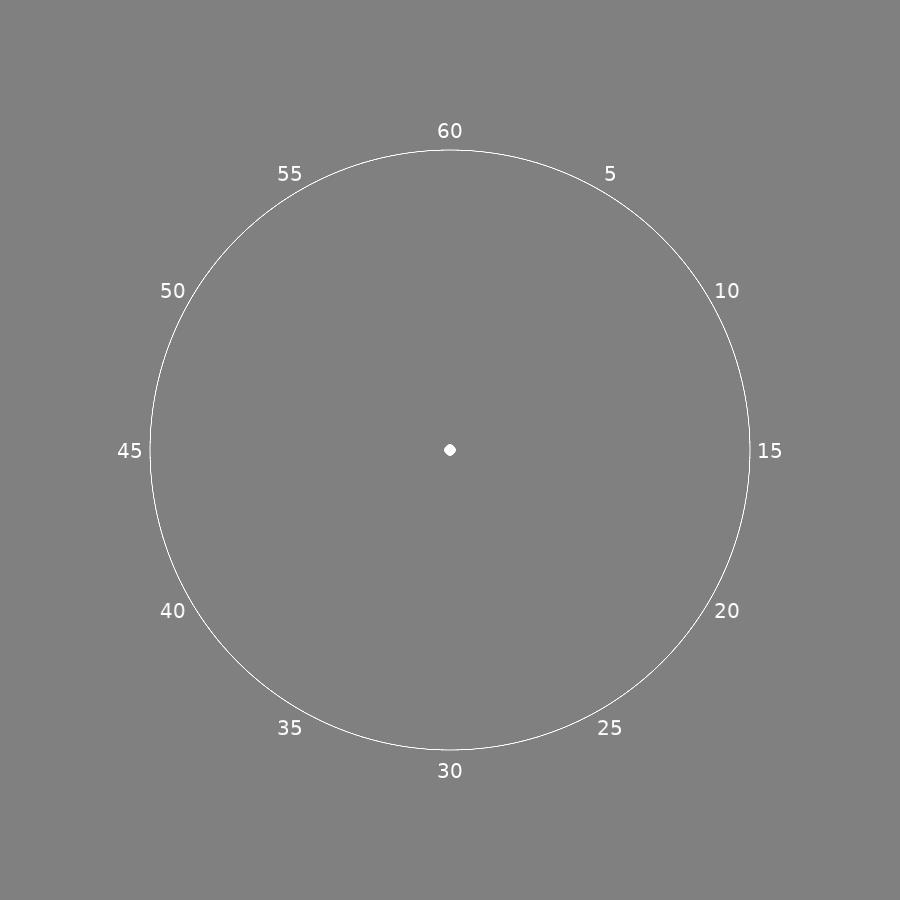
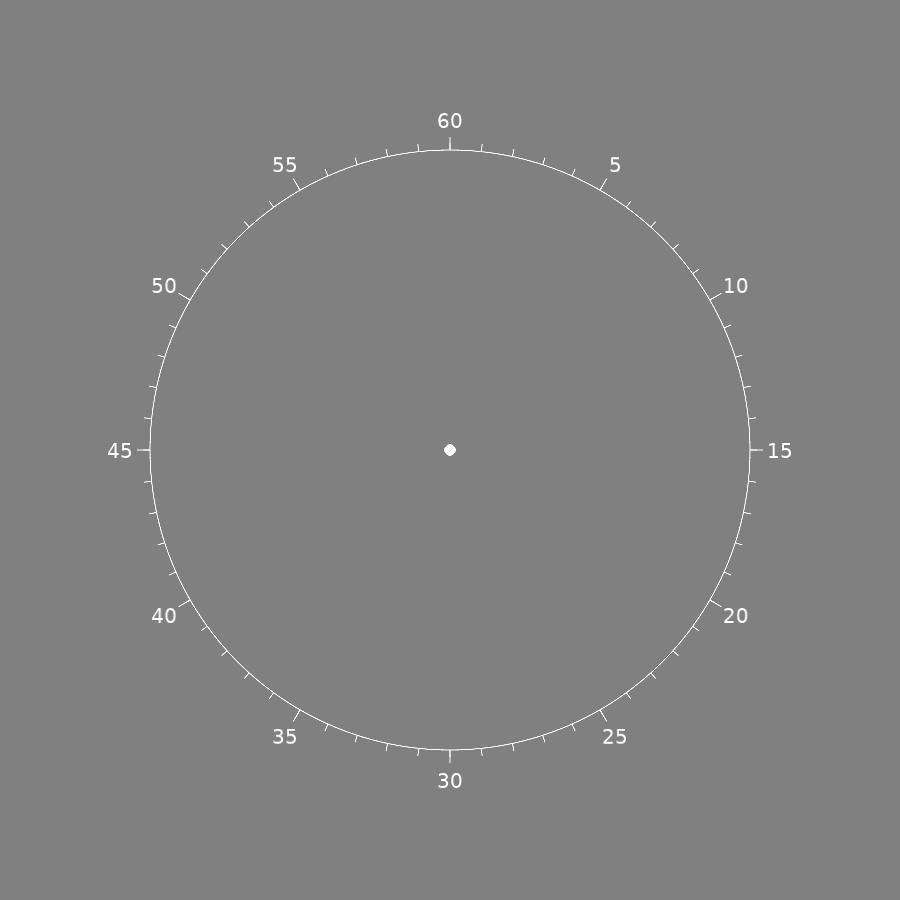
must be close to what ellen wanted

diff --git a/main.py b/main.py
@@ -1,16 +1,28 @@
-import numpy as np
-from psychopy import visual, event, core, monitors
+from psychopy import prefs
+prefs.hardware['audioLib'] = ['pyo']
+# prefs.hardware['audioLatencyMode'] = '3'  # Aggressive exclusive mode in PTB
+from psychopy import visual, event, core, monitors, microphone, gui, sound
 import psychopy.tools.coordinatetools
 import random
-# from mygui import present_gui
+import numpy as np
+import csv
+import os
+from guimy import present_gui
 
-# dlg = present_gui()
-# condition = dlg['Condition']
-condition = 'baseline action'
-condition = 'action-effect: tone'
+# Enable sound input/output: you need to do this well before you actually record anything, it is like 'power on'
+microphone.switchOn(sampleRate=16000)
+
+dlg = present_gui()
+participant = dlg['Participant ID']
+age = dlg["Participant Age"]
+sex = dlg["Participant Sex"]
+condition = dlg["Condition"]
+
+print("")
 print(condition)
-which_window_size = "fullscreen"
-which_window_size = "small"
+print("")
+
+which_stimulus_size = dlg["Stimulus size"]
 
 # initialise the monitor
 mon = monitors.Monitor("e330", width=30.0, distance=60.0)
@@ -18,16 +30,16 @@ mon.saveMon()
 mon.setSizePix((1920, 1080))
 
 # open the window
-if which_window_size == "small":
+if which_stimulus_size == "window":
     win = visual.Window(fullscr=False,  size=[900, 900], screen=0, color=[0, 0, 0], units="pix", allowGUI=True,
                         waitBlanking=True, monitor=mon, autoLog=False, winType='pyglet', gammaErrorPolicy="ignore")
-elif which_window_size == "fullscreen":
+elif which_stimulus_size == "fullscreen":
     win = visual.Window(fullscr=True, size=[1920, 1080], units='pix', winType='pyglet', monitor=mon)
 
 # specify the coordinates of the numbers on the clock perimeter
 thetas = np.linspace(start=360+90, stop=90, num=12, endpoint=False, retstep=False, dtype='f8')
-xs, ys = psychopy.tools.coordinatetools.pol2cart(thetas, radius=300+20)
-coords = list(zip(xs, ys))
+xs, ys = psychopy.tools.coordinatetools.pol2cart(thetas, radius=300+30)
+text_positions = list(zip(xs, ys))
 
 # give the coordinates of each increment's position on the clock perimeter, for use in rotating the hand smoothly
 thetas = np.linspace(start=360+90, stop=90, num=60*4, endpoint=False, retstep=False, dtype='f8')
@@ -37,6 +49,12 @@ second_positions = list(zip(xs, ys))
 # Make a stimulus for the clock's perimeter
 clock_circle = visual.Circle(win, radius=300, edges=32*8, pos=(0, 0), name='clock')
 
+# Make a not-shown circle with 12 edges for tick mark positions
+tick_circle_start_major = visual.Circle(win, radius=300, edges=12, pos=(0, 0))
+tick_circle_end_major =   visual.Circle(win, radius=300+13, edges=12, pos=(0, 0))
+tick_circle_start_minor = visual.Circle(win, radius=300, edges=60, pos=(0, 0))
+tick_circle_end_minor =   visual.Circle(win, radius=300+7, edges=60, pos=(0, 0))
+
 # Make a stimulus for the clock's centre
 clock_centre = visual.Circle(win, radius=5, edges=32*8, pos=(0, 0), name='center', fillColor='white')
 
@@ -44,10 +62,14 @@ clock_centre = visual.Circle(win, radius=5, edges=32*8, pos=(0, 0), name='center
 clock_text = ['60'] + [str(x) for x in range(5, 60, 5)]
 
 # draw the clock into a movie frame
-# TODO add tick marks
 for i in range(12):
-    txt = visual.TextStim(win=win, text=clock_text[i], pos=coords[i])
+    txt = visual.TextStim(win=win, text=clock_text[i], pos=text_positions[i], alignHoriz='center', alignVert='center')
     txt.draw()
+    maj = visual.Line(win, start=tick_circle_start_major.vertices[i], end=tick_circle_end_major.vertices[i])
+    maj.draw()
+for j in range(60):
+    minor = visual.Line(win, start=tick_circle_start_minor.vertices[j], end=tick_circle_end_minor.vertices[j])
+    minor.draw()
 clock_circle.draw()
 clock_centre.draw()
 win.getMovieFrame(buffer='back')
@@ -56,64 +78,129 @@ win.clearBuffer()
 
 clock_stimulus = visual.ImageStim(win, image="clock.jpg")
 
+trials = [1, 2]
+max_trial = trials[len(trials)-1]
 
-# Draw the clock, and make the hand sweep round a few times
-started = False
-timer_on = False
-response_key_pressed = False
-clock_time_in_seconds = None
-countdown = None
-post_keypress_rotation_duration = 0.0
-keys = []
-foo = 0
-print('waiting for keypress')
-while not started:
-    event.clearEvents()
-    if not started and not timer_on:
-        start_instructions = visual.TextStim(win, text="Press any key to start the clock")
-        start_instructions.draw()
-        win.flip()
-        started = True if len(event.getKeys()) else False
+# Start the session
+session = {}
+# Trial loop
+for trial_number in trials:
+    trial_name = str(trial_number)
+    wave_file_name = str(participant) + "_trial_" + str(trial_number)
+    key__real_time_on = 0.0
+    key__face_time_on = 0.0
+    session[trial_number] = {
+        "participant": participant,
+        "age": age,
+        "sex": sex,
+        "trial_number": trial_number,
+        "trial_name": trial_name,
+        "trial_condition": condition,
+        "wave_file_name": wave_file_name,
+        "key__real_time_on": 0.0,
+        "tone_real_time_on": 0.0,
+        "key__face_time_on": 0.0,
+        "tone_face_time_on": 0.0,
+    }
+    results_file_name = os.path.join("results", "participant_{}.csv".format(participant))
+    trial_clock = None
+    started = False
+    start_key = []
+    timer_on = False
+    response_key_pressed = False
+    clock_time_in_seconds = None
+    countdown = None
+    post_keypress_rotation_duration = random.randrange(start=1500, stop=2500, step=1) / 1000.0
+    keys = []
+    tone_played = False
+    fake_keypress_time = random.randrange(start=1000, stop=5000, step=1) / 1000
+    wave_file_directory = 'wave_files'
+    wave_file_duration = 5
+    request_estimate_text = None
+    if condition in ['action-effect tone', 'baseline tone']:
+        request_estimate_text = "When did you hear the tone?"
+    if condition in ['action-effect action', 'baseline action']:
+        request_estimate_text = "When did you press the key?"
+    print('waiting for keypress')
+    while not started:
         event.clearEvents()
-    if started and not timer_on:
-        timer_on = True
-        experiment_clock = core.Clock()
-        t0 = experiment_clock.getTime()
-        print("t0 = {}".format(round(t0)))
-    if started and timer_on:
-        for number_of_revolutions in range(2):
-            for secs in range(60*4):
-                clock_stimulus.draw()
-                hand = visual.Line(win, start=(0, 0), end=second_positions[secs], lineWidth=8)
-                hand.draw()
-                true_clockface_time_elapsed = (number_of_revolutions * 60) + (secs / 4.0)
-                true_clockface_time = secs / 4.0
-                if secs % 4 == 0:
-                    clock_time_in_seconds = visual.TextStim(win, text=str(true_clockface_time), pos=(400, 400))
-                clock_time_in_seconds.draw()
-                if not response_key_pressed:
-                    keys = event.getKeys(timeStamped=experiment_clock)
-                if not response_key_pressed and len(keys):
-                    key_time = keys[0][1]
-                    print("key_time = {} seconds on the experiment clock python object".format(key_time))
-                    print("true_clockface_time = {} seconds on the clock face".format(true_clockface_time))
-                    print("true_clockface_time_elapsed = {} seconds of clockface time".format(true_clockface_time_elapsed))
-                    response_key_pressed = True
-                    event.clearEvents()
-                    post_keypress_rotation_duration = random.randrange(start=1500, stop=2500, step=1) / 1000.0
-                    print("post_keypress_rotation_duration = {} seconds".format(post_keypress_rotation_duration))
-                    countdown = core.CountdownTimer(start=post_keypress_rotation_duration)
-
-                if response_key_pressed and countdown.getTime() <= 0:
-                    break
-
-                if response_key_pressed and condition in ['action-effect: action', 'action-effect: tone']:
-                    if experiment_clock.getTime() - key_time >= 0.250:
-                        if foo == 0:
-                            print('250 ms have elapsed since key_time')
-                            foo = 1
-                        # play_a_tone()
+        if not started and not timer_on:
+            start_instructions = visual.TextStim(win, text="Press any key to start the clock")
+            start_instructions.draw()
+            win.flip()
+            start_key = event.getKeys()
+            if len(start_key) and start_key[0] == 'escape':
+                print('user quitted')
+                core.quit()
+            started = True if len(start_key) else False
+            event.clearEvents()
+        if started and not timer_on:
+            timer_on = True
+            trial_clock = core.Clock()
+        if started and timer_on:
+            for number_of_revolutions in range(2):
+                for secs in range(60*4):
+                    clock_stimulus.draw()
+                    hand = visual.Line(win, start=(0, 0), end=second_positions[secs], lineWidth=8)
+                    hand.draw()
+                    if not response_key_pressed:
+                        keys = event.getKeys(timeStamped=trial_clock)
+                    if not response_key_pressed and len(keys):
+                        response_key_pressed = True
+                        event.clearEvents()
+                        key__real_time_on = float(keys[0][1])
+                        key__face_time_on = float(secs / 4.0)
+                        session[trial_number]["key__real_time_on"] = round(key__real_time_on, 4)
+                        session[trial_number]["key__face_time_on"] = key__face_time_on
+                        countdown = core.CountdownTimer(start=post_keypress_rotation_duration)
+                    if response_key_pressed and condition in ['action-effect tone', 'action-effect action'] and not tone_played:
+                        if trial_clock.getTime() - key__real_time_on >= 0.250:
+                            tone_real_time_on = trial_clock.getTime()
+                            tone_face_time_on = (secs / 4.0)
+                            session[trial_number]["tone_real_time_on"] = round(tone_real_time_on, 4)
+                            session[trial_number]["tone_face_time_on"] = round(tone_face_time_on, 4)
+                            tone = sound.Sound(value=1000, secs=0.075)
+                            tone.play()
+                            tone_played = True
+                    if not response_key_pressed and condition in ['baseline tone'] and not tone_played:
+                        if trial_clock.getTime() >= fake_keypress_time:
+                            tone_real_time_on = trial_clock.getTime()
+                            tone_face_time_on = (secs / 4.0)
+                            session[trial_number]["tone_real_time_on"] = round(tone_real_time_on, 4)
+                            session[trial_number]["tone_face_time_on"] = round(tone_face_time_on, 4)
+                            tone = sound.Sound(value=1000, secs=0.075)
+                            tone.play()
+                            tone_played = True
+                    if response_key_pressed and condition in ['baseline action']:
                         pass
+                    if response_key_pressed and countdown.getTime() <= 0:
+                        win.flip()
+                        break
+                    win.flip()
 
-                win.flip()
+    trial_microphone = microphone.AudioCapture(name=wave_file_name, saveDir=wave_file_directory, stereo=False, chnl=0)
+    trial_microphone.reset()
+    request = visual.TextStim(win, request_estimate_text)
+    request.draw()
+    win.flip()
+    trial_microphone.record(sec=wave_file_duration, block=False)
+    trial_microphone.reset()
+    core.wait(wave_file_duration)
+    win.flip()
 
+    if trial_number < max_trial:
+        iti = visual.TextStim(win, "Get ready for the next trial ...")
+        iti.draw()
+    win.flip()
+    core.wait(2)
+
+    print("")
+    for k, v in session[trial_number].items():
+        print("{}\t{}".format(k, v))
+    print("")
+
+w = csv.writer(open(results_file_name, "w"))
+for t in trials:
+    this_trial = session[t]
+    for key, val in this_trial.items():
+        w.writerow([key, val])

diff --git a/guimy.py b/guimy.py
@@ -5,22 +5,19 @@ from psychopy import core
 def present_gui():
     dlg = None
 
-    dialog = gui.Dlg(title="Intentional Binding", screen=1)
+    dialog = gui.Dlg(title="Intentional Binding", screen=0)
     #
-    dialog.addField('Participant ID', 'test')
+    dialog.addField('Participant ID', 'tester')
     dialog.addField('Participant Age', 19)
     dialog.addField('Participant Sex', choices=['female', 'male', 'other'])
     #
-    dialog.addField('Condition', choices=['baseline action', 'baseline with tone', 'action-effect: action', 'action-effect: tone'])
+    dialog.addField('Condition', choices=['baseline action', 'baseline tone', 'action-effect action', 'action-effect tone'])
+    #
+    dialog.addField('Stimulus size', choices=['window', 'fullscreen'])
     #
     dialog.show()
     if dialog.OK:
         dlg = {dialog.__dict__["inputFieldNames"][i]: dialog.__dict__["data"][i] for i in range(len(dialog.__dict__["data"]))}
-        if not dlg['Condition'] == 'baseline action':
-            print('not implemented yet')
-            core.quit()
-        elif dlg['Condition'] == 'baseline action':
-            pass
     else:
         print('user cancelled')
         core.quit()

diff --git a/README.md b/README.md
@@ -67,7 +67,7 @@
 
 
 
-![Conditions](conditions.gif)
+![Conditions](docs/conditions.gif)
 
 
-![Results example](results.gif)
+![Results example](docs/results.gif)
